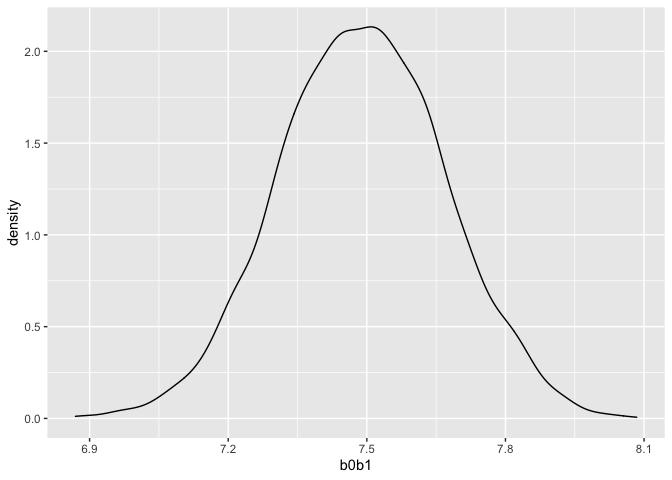
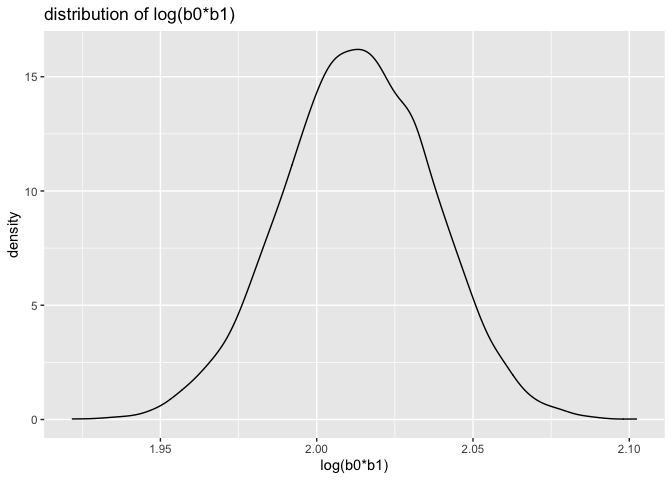
finish

diff --git a/p8105_hw6_jl6049.md b/p8105_hw6_jl6049.md
@@ -60,7 +60,8 @@ Data summary
 | wtgain         |          0 |              1 |   22.08 |  10.94 | -46.00 |   15.00 |   22.00 |   28.00 |   89.0 | ▁▁▇▁▁ |
 
 The dataset has No missing. But `pnumlbw` and `pnumsga` are all zero, so
-cancel those two columns. Convert several numeric variables to factor.
+cancel those two columns. Then, Convert several numeric variables to
+factor.
 
 ``` r
 birthweight_clean =birthweight %>% 
@@ -88,16 +89,20 @@ BestSub(variables,birthweight$bwt) # best subset
 variables = variables %>% select(-malform) 
 ```
 
-Use `cor()` to find out correlation between variables: - `ppwt`,`ppbmi`
-,`delwt` and `wtgain` have relation, so I only keep `wtgain` and`delwt`.
-- `mrace` and `frace` are correlated to each other, so only keep `mrace`
+Use `cor()` to find out correlation between variables:
 
-Use `BestSub()`: - `malform` seems not influence the model a lot so
-cancel it.
+-   `ppwt`,`ppbmi` ,`delwt` and `wtgain` have relation, so I only keep
+    `wtgain` and`delwt`.
+-   `mrace` and `frace` are correlated to each other, so only keep
+    `mrace`
 
-Based on the understanding, I `fincme` and `momage`and `menarche` are
-not relevant. So I try to figure this out by evaluating p values of
-those variables in a lm model.
+Use `BestSub()`:
+
+-   `malform` seems not influence the model a lot so cancel it.
+
+Based on the understanding, I guess `fincme` and `momage`and `menarche`
+are not relevant to response. So I try to figure this out by evaluating
+p values of those variables in a lm model.
 
 ``` r
 fit = lm(bwt ~ babysex + bhead + blength +delwt + fincome + gaweeks + menarche + mheight + momage + mrace  +parity +smoken+  wtgain , data = birthweight_clean)
@@ -180,7 +185,7 @@ summary(fit_final)
     ## Multiple R-squared:  0.7179, Adjusted R-squared:  0.7171 
     ## F-statistic:   918 on 12 and 4329 DF,  p-value: < 2.2e-16
 
-**show a plot of model residuals against fitted values**
+**Show a plot of model residuals against fitted values**
 
 ``` r
 birthweight_clean %>% 
@@ -196,10 +201,12 @@ birthweight_clean %>%
 
 ![](p8105_hw6_jl6049_files/figure-gfm/unnamed-chunk-8-1.png)<!-- -->
 
-**Compare my model to two others** One using length at birth and
-gestational age as predictors (main effects only) One using head
-circumference, length, sex, and all interactions (including the
-three-way interaction) between these
+**Compare my model to two other models**
+
+-   One using length at birth and gestational age as predictors (main
+    effects only)
+-   One using head circumference, length, sex, and all interactions
+    (including the three-way interaction) between these
 
 ``` r
 fit_main = lm(bwt ~ blength + gaweeks, data = birthweight_clean)
@@ -224,6 +231,12 @@ cv_df =
     rmse_main = map2_dbl(fit_main, test, ~rmse(model = .x, data = .y)),
     rmse_nteraction = map2_dbl(fit_interaction, test, ~rmse(model = .x, data = .y)))
 ```
+
+    ## Warning in predict.lm(model, data): prediction from a rank-deficient fit may be
+    ## misleading
+
+    ## Warning in predict.lm(model, data): prediction from a rank-deficient fit may be
+    ## misleading
 
 ``` r
 cv_df %>% 
@@ -264,6 +277,7 @@ Use 5000 bootstrap samples and, for each bootstrap sample, produce
 estimates of these two quantities
 
 ``` r
+set.seed(1)
 estimates =
   weather_df %>% 
   bootstrap(n = 5000) %>% 
@@ -278,7 +292,7 @@ estimates =
   group_by(.id) %>% 
   summarize(
     r.squared = r.squared,
-    b0b1 = prod(estimate)) %>% 
+    logb0b1 = log(prod(estimate))) %>% 
   unique() %>% 
   ungroup()
 ```
@@ -290,20 +304,35 @@ Plot the distribution of your estimates, and describe these in words.
 ``` r
 estimates %>% 
   select(r.squared) %>% 
-  ggplot(aes(x = r.squared)) + geom_density()
+  ggplot(aes(x = r.squared)) + geom_density() +
+  labs(
+    title = "distribution of R-square", 
+  ) 
 ```
 
 ![](p8105_hw6_jl6049_files/figure-gfm/unnamed-chunk-14-1.png)<!-- -->
 
+The mean of R square distribution is around 0.91. This distribution has
+a heavy tail extending to low values, which could means that some
+bootstrap samples have quite low R-square. Thus, it indicates that there
+are some outliers that their independent variables is not explaining
+much in the variation of my dependent variable!!!!!
+
 ``` r
 estimates %>% 
-  select(b0b1) %>% 
-  ggplot(aes(x = b0b1)) + geom_density()
+  select(logb0b1) %>% 
+  ggplot(aes(x = logb0b1)) + geom_density() +
+  labs(
+    title = "distribution of log(b0*b1)",
+    x = "log(b0*b1)")
 ```
 
 ![](p8105_hw6_jl6049_files/figure-gfm/unnamed-chunk-15-1.png)<!-- -->
 
-Description:
+This distribution of log (*β̂*<sub>0</sub> \* *β̂*<sub>1</sub>) is
+generally normal with mean around 2.02. But the distribution have a
+little “shoulder” near 2.025. Maybe some large outliers are included in
+the bootstrap sample.!!!!!!
 
 ``` r
 ci_r =
@@ -311,9 +340,22 @@ estimates %>%
   summarise(qlow_r = quantile(r.squared,probs = c(0.025)),
             qhigh_r = quantile(r.squared,probs = c(0.0975)))
 
+ci_r %>% knitr::kable()
+```
 
+|   qlow\_r |  qhigh\_r |
+|----------:|----------:|
+| 0.8936684 | 0.9000229 |
+
+``` r
 ci_b =
 estimates %>%
-  summarise(qlow_b = quantile(b0b1,probs = c(0.025)),
-            qhigh_b = quantile(b0b1,probs = c(0.0975)))
+  summarise(qlow_b = quantile(logb0b1,probs = c(0.025)),
+            qhigh_b = quantile(logb0b1,probs = c(0.0975)))
+
+ci_b %>% knitr::kable()
 ```
+
+|  qlow\_b | qhigh\_b |
+|---------:|---------:|
+| 1.964949 | 1.982117 |
